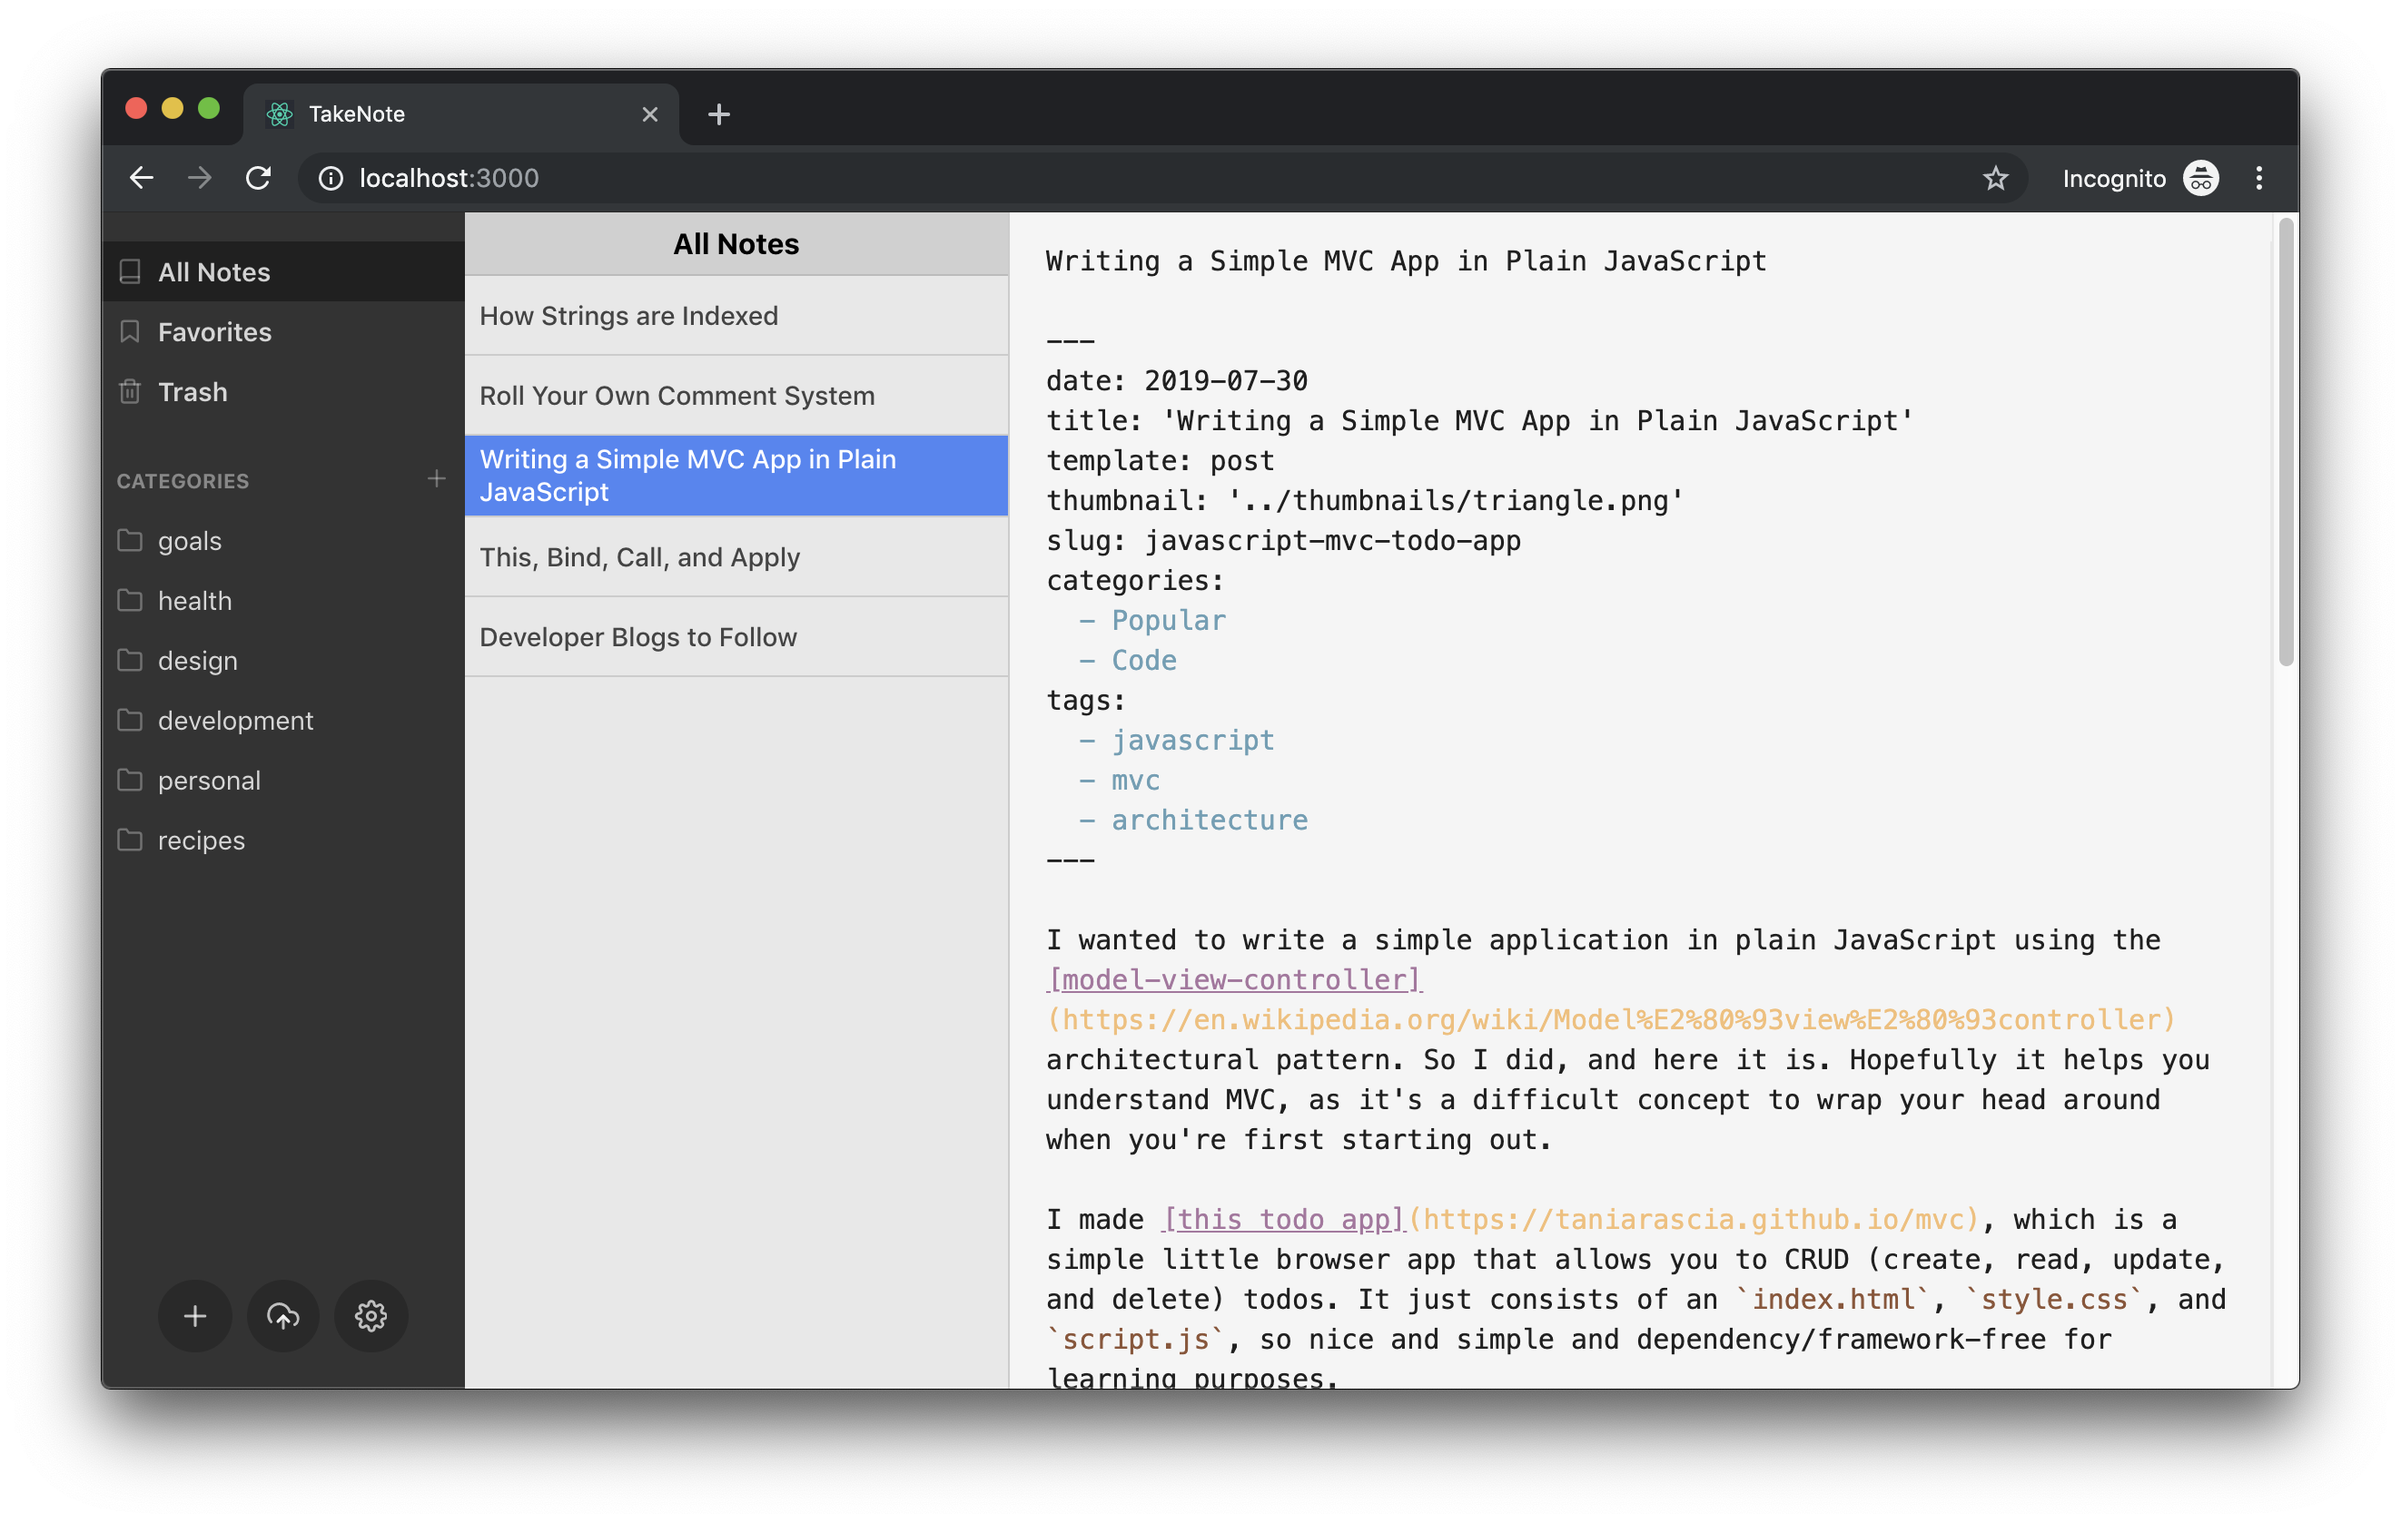
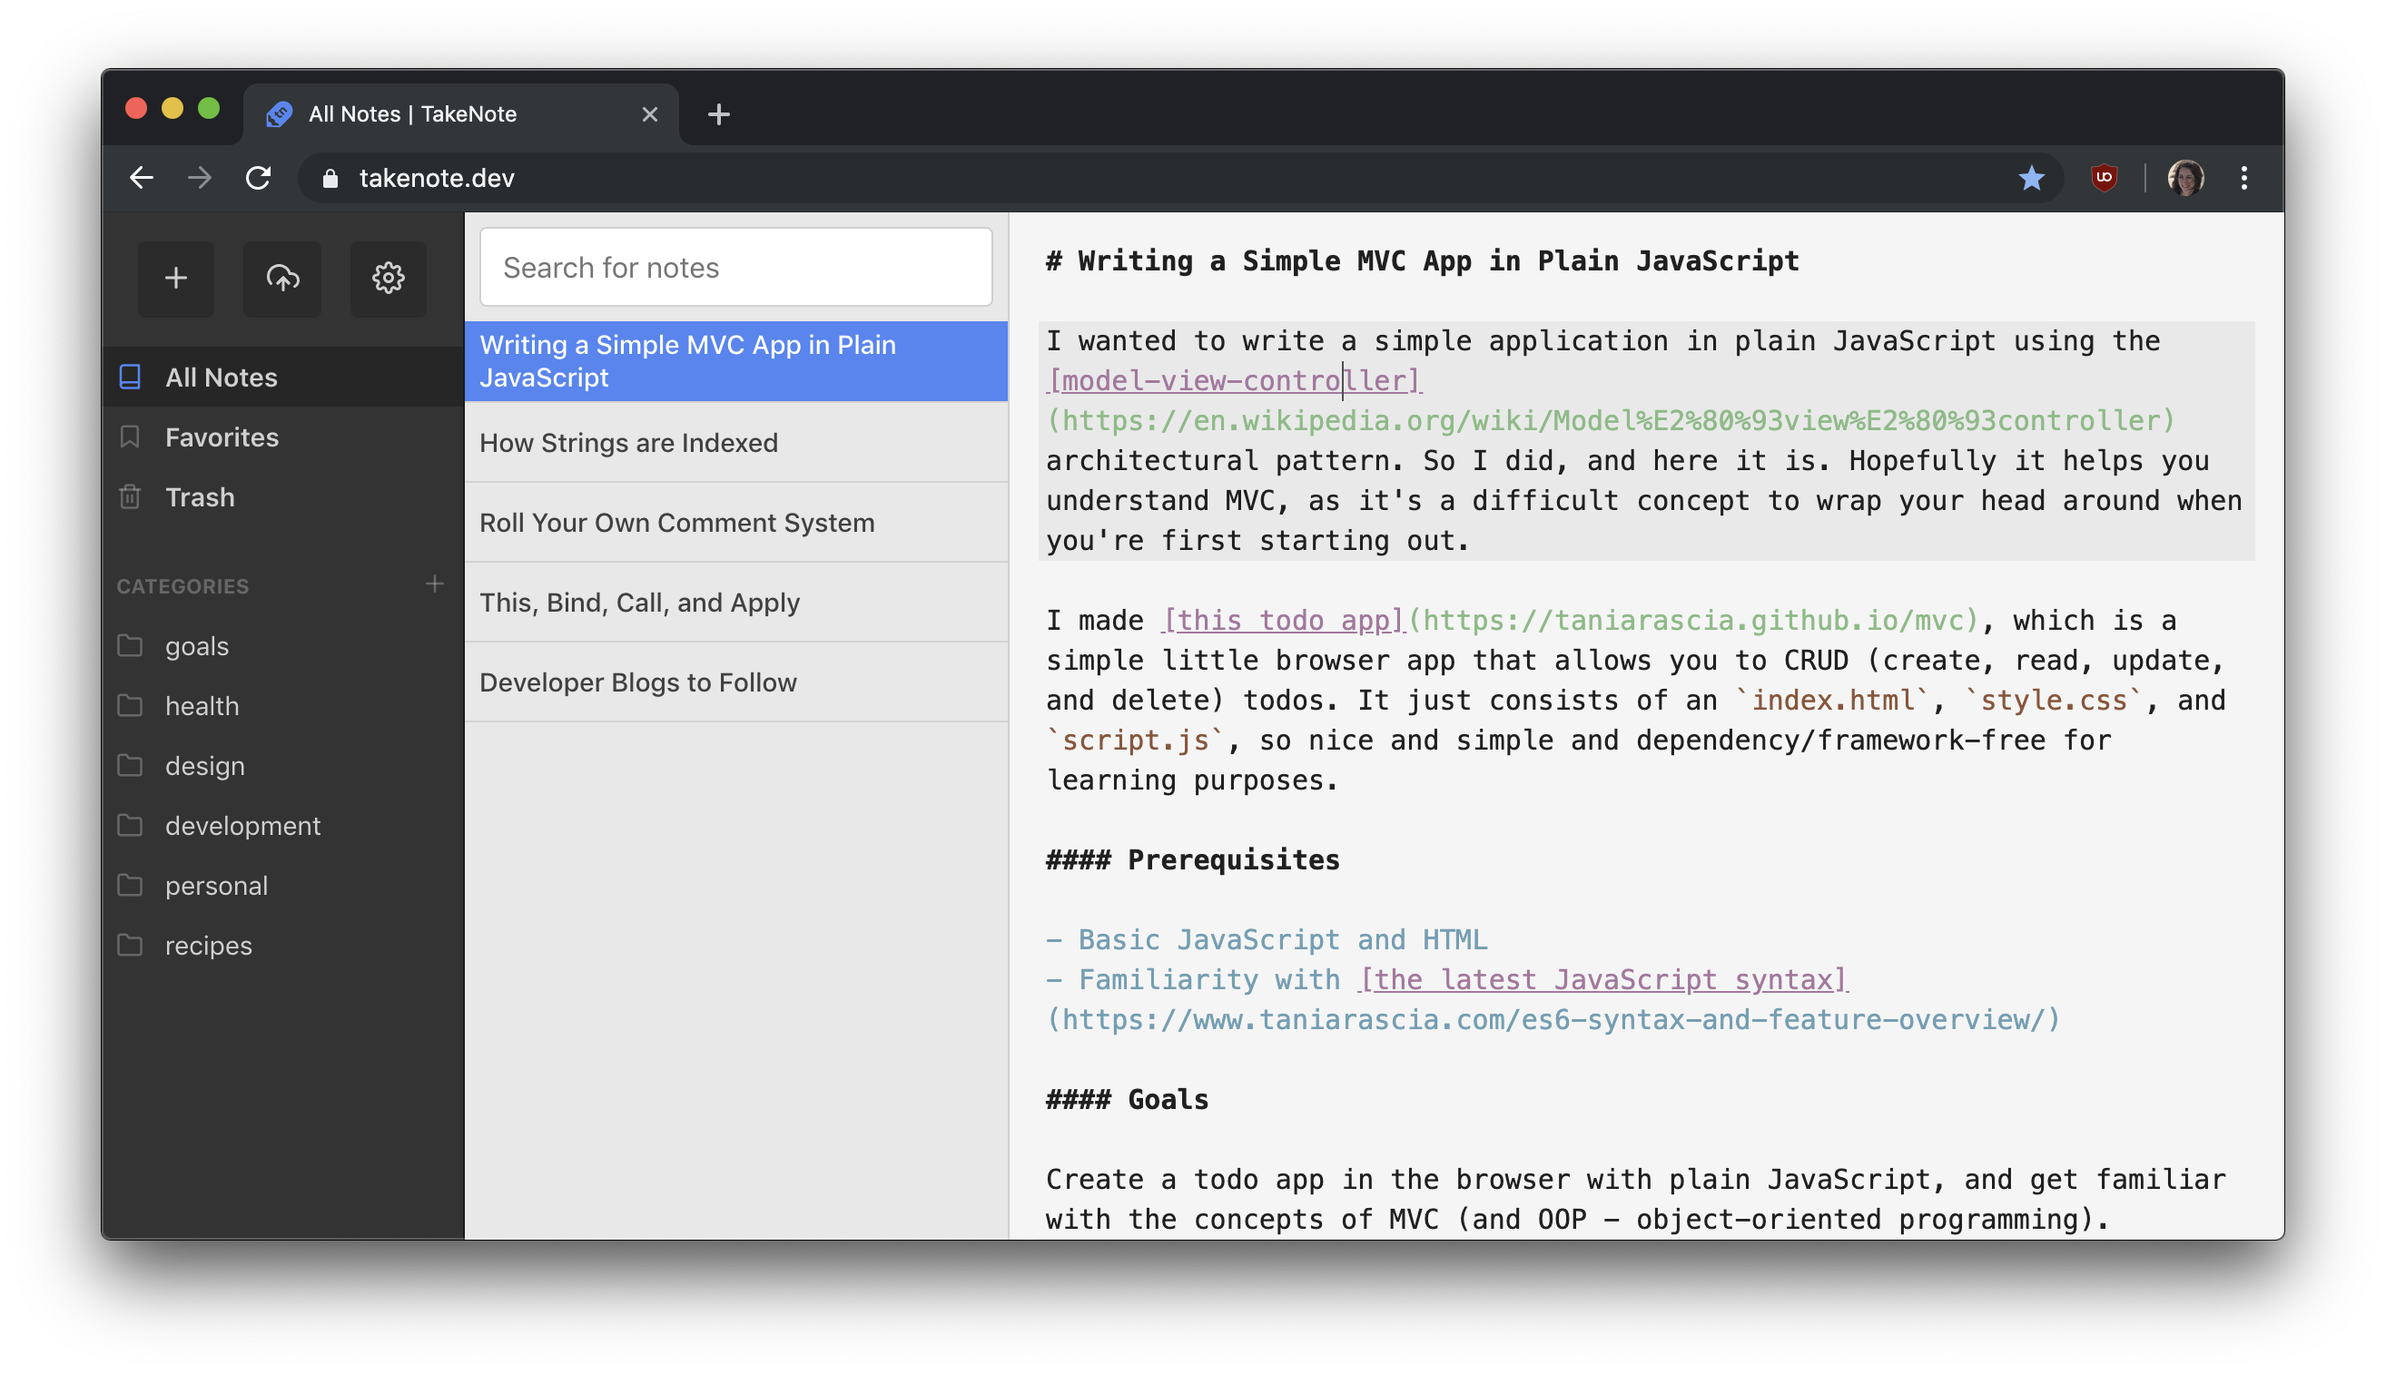
Update screenshot

diff --git a/src/styles/index.scss b/src/styles/index.scss
@@ -4,6 +4,7 @@
 @import 'app-sidebar';
 @import 'note-sidebar';
 @import 'editor';
+@import 'light-theme';
 @import 'buttons';
 @import 'forms';
 @import 'modal';

diff --git a/src/styles/_light-theme.scss b/src/styles/_light-theme.scss
@@ -1,0 +1,5 @@
+.cm-s-base16-light {
+  span.cm-string {
+    color: #83bc83;
+  }
+}
